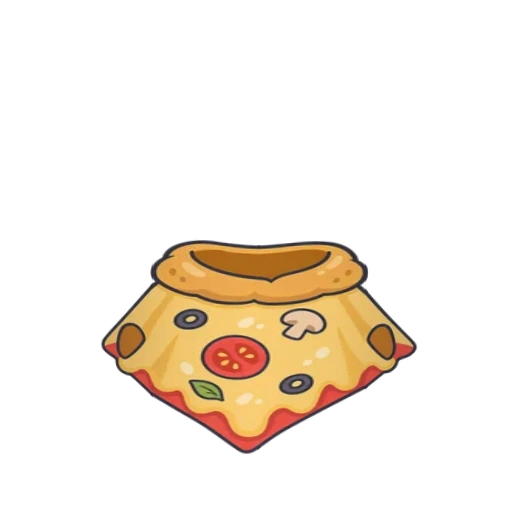
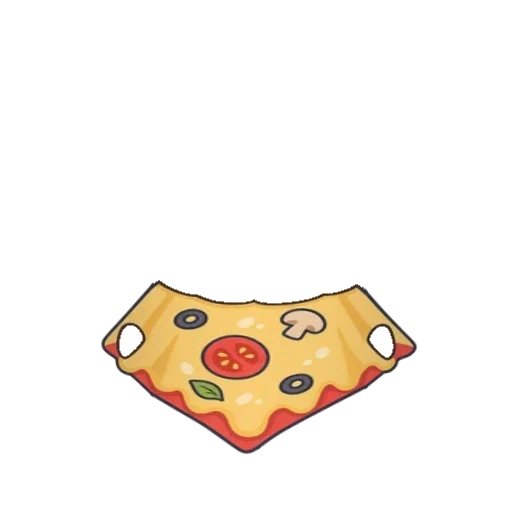
Moka kiyafetleri: koyu ic/arka yuzler kesildi (yaka ici, kol agzi, battaniye alt astari; dugmeler kaldi), ayak katmanindaki delikler kapandi, balon tutan kanat saga alindi
Claude-Session: https://claude.ai/code/session_01SaDd7Zv9GJueYhYhy1FRtz

Changed region(s): [[0.2812, 0.4688, 0.7188, 0.5938], [0.7188, 0.625, 0.7812, 0.7188], [0.2188, 0.625, 0.2812, 0.7188]]

diff --git a/src/components/MokaHeldItem.tsx b/src/components/MokaHeldItem.tsx
@@ -44,7 +44,7 @@ const GROW: Record<string, number | undefined> = { el_gitar: 1.22, el_telefon: 1
 /** Eşyayı tutan tek kanadı büyütür (olta tutan sağ kanat). */
 const WING_GROW: Record<string, number | undefined> = { el_olta: 1.12, el_kilic: 1.15, el_degnek: 1.15, el_balon: 1.3, el_semsiye: 1.0 };
 /** Eşyayı tutan tek kanadı yatayda kaydırır (görsel genişliğine oranı; + sağa). */
-const SHIFT_X: Record<string, number | undefined> = { el_semsiye: 0.1 };
+const SHIFT_X: Record<string, number | undefined> = { el_semsiye: 0.1, el_balon: 0.035 };
 const SHIFT_Y: Record<string, number | undefined> = { el_semsiye: 0.04 };
 
 const DRAWN_EFFECTS: Record<string, Point | undefined> = {

diff --git a/scripts/make-moka-worn-clothes.py b/scripts/make-moka-worn-clothes.py
@@ -1,0 +1,91 @@
+"""Giyilen gövde kıyafetlerinden içte kalan koyu yüzleri (yaka içi, kol ağzı içi, arka etek astarı) siler.
+
+Kıyafet Moka'nın üstüne konunca bu yüzler giysinin arkası/içi gibi görünüyor; silinince altından
+Moka'nın tüyü görünür. Düğmeler, cepler, desenler ve dış çizgi kalır.
+
+Kullanım: python scripts/make-moka-worn-clothes.py <kaynak_klasör> src/assets/moka/clothing
+Kaynak: kesilmemiş kıyafetler (git: e1b63b6 sürümündeki src/assets/moka/clothing).
+
+Her kıyafet için:
+  regions: koyu çizgilerle ayrılmış bölgelerden silinecekler (numaralar `segment()` sırasıyla).
+  seeds:   (x, y, tolerans) 512'lik tuvalde bir noktadan renk benzerliğiyle yayılıp silinecek alan
+           (gölge yüzü kumaşla aynı bölgede kalan kıyafetler için).
+"""
+import os
+import sys
+
+import numpy as np
+from PIL import Image
+from scipy import ndimage as ndi
+
+LUM_TH = 95  # dış çizgi bundan koyu
+
+CUTS = {
+    'govde_balikci_yelegi': {'regions': [1, 5, 6]},
+    'govde_battaniye': {'regions': [2, 6, 7, 8]},
+    'govde_dev_cicek': {'regions': [2, 9, 10]},
+    'govde_hirka': {'regions': [4]},
+    'govde_kaplan': {'regions': [2, 3]},
+    'govde_kazak': {'seeds': [(125, 330, 18), (395, 330, 18)]},
+    'govde_kimono': {'seeds': [(115, 330, 10), (407, 330, 10)]},
+    'govde_kral_pelerini': {'seeds': [(255, 270, 40)]},
+    'govde_mont': {'seeds': [(257, 262, 18), (120, 335, 18), (400, 335, 18)]},
+    'govde_pelerin': {'regions': [2]},
+    'govde_pijama': {'regions': [2, 5, 6]},
+    'govde_pilot': {'regions': [5, 7]},
+    'govde_pizza': {'regions': [1, 11, 12]},
+    'govde_sef_ceketi': {'regions': [1, 5, 6]},
+    'govde_sporcu': {'seeds': [(255, 265, 18), (140, 325, 18), (380, 325, 18)]},
+    'govde_tisort_kahve': {'regions': [1, 4, 5]},
+    'govde_yagmurluk': {'regions': [2], 'seeds': [(125, 345, 18), (395, 345, 18)]},
+    'govde_yelek': {'seeds': [(255, 280, 16)]},
+}
+
+
+def segment(a):
+    rgb, al = a[..., :3], a[..., 3]
+    lum = 0.299 * rgb[..., 0] + 0.587 * rgb[..., 1] + 0.114 * rgb[..., 2]
+    fill = (al > 100) & (lum > LUM_TH)
+    lab, _ = ndi.label(fill)
+    return lab, fill
+
+
+def flood(a, x, y, tol):
+    rgb, al = a[..., :3], a[..., 3]
+    ref = rgb[y - 2:y + 3, x - 2:x + 3].reshape(-1, 3).mean(0)
+    ok = (al > 100) & (np.sqrt(((rgb - ref) ** 2).sum(-1)) < tol)
+    lab, _ = ndi.label(ok)
+    k = lab[y, x]
+    return lab == k if k else np.zeros(ok.shape, bool)
+
+
+def cut(a, spec):
+    lab, fill = segment(a)
+    gone = np.zeros(fill.shape, bool)
+    for k in spec.get('regions', []):
+        gone |= lab == k
+    for x, y, tol in spec.get('seeds', []):
+        gone |= flood(a, x, y, tol)
+    gone = ndi.binary_closing(gone, iterations=1)
+    kept = (a[..., 3] > 100) & ~gone & fill
+    near = ndi.binary_dilation(kept, iterations=4)
+    around = ndi.binary_dilation(gone, iterations=8)
+    out = a.copy()
+    # Silinen yüz + onun kenarında kalıp artık hiçbir kumaşa değmeyen çizgiler gider.
+    drop = gone | ((a[..., 3] > 0) & ~fill & ~near & around)
+    out[..., 3][drop] = 0
+    # Silinen yüzün kenarındaki yarı saydam pikseller için 1 px yumuşatma.
+    edge = ndi.binary_dilation(drop, iterations=1) & ~drop & ~fill
+    out[..., 3][edge] *= 0.6
+    return out
+
+
+def main(src, dst):
+    for name, spec in CUTS.items():
+        a = np.array(Image.open(os.path.join(src, name + '.webp')).convert('RGBA')).astype(float)
+        Image.fromarray(cut(a, spec).clip(0, 255).astype('uint8')).save(os.path.join(dst, name + '.webp'), quality=90, method=6, alpha_quality=100)
+        print('ok', name)
+
+
+if __name__ == '__main__':
+    main(*sys.argv[1:3])
